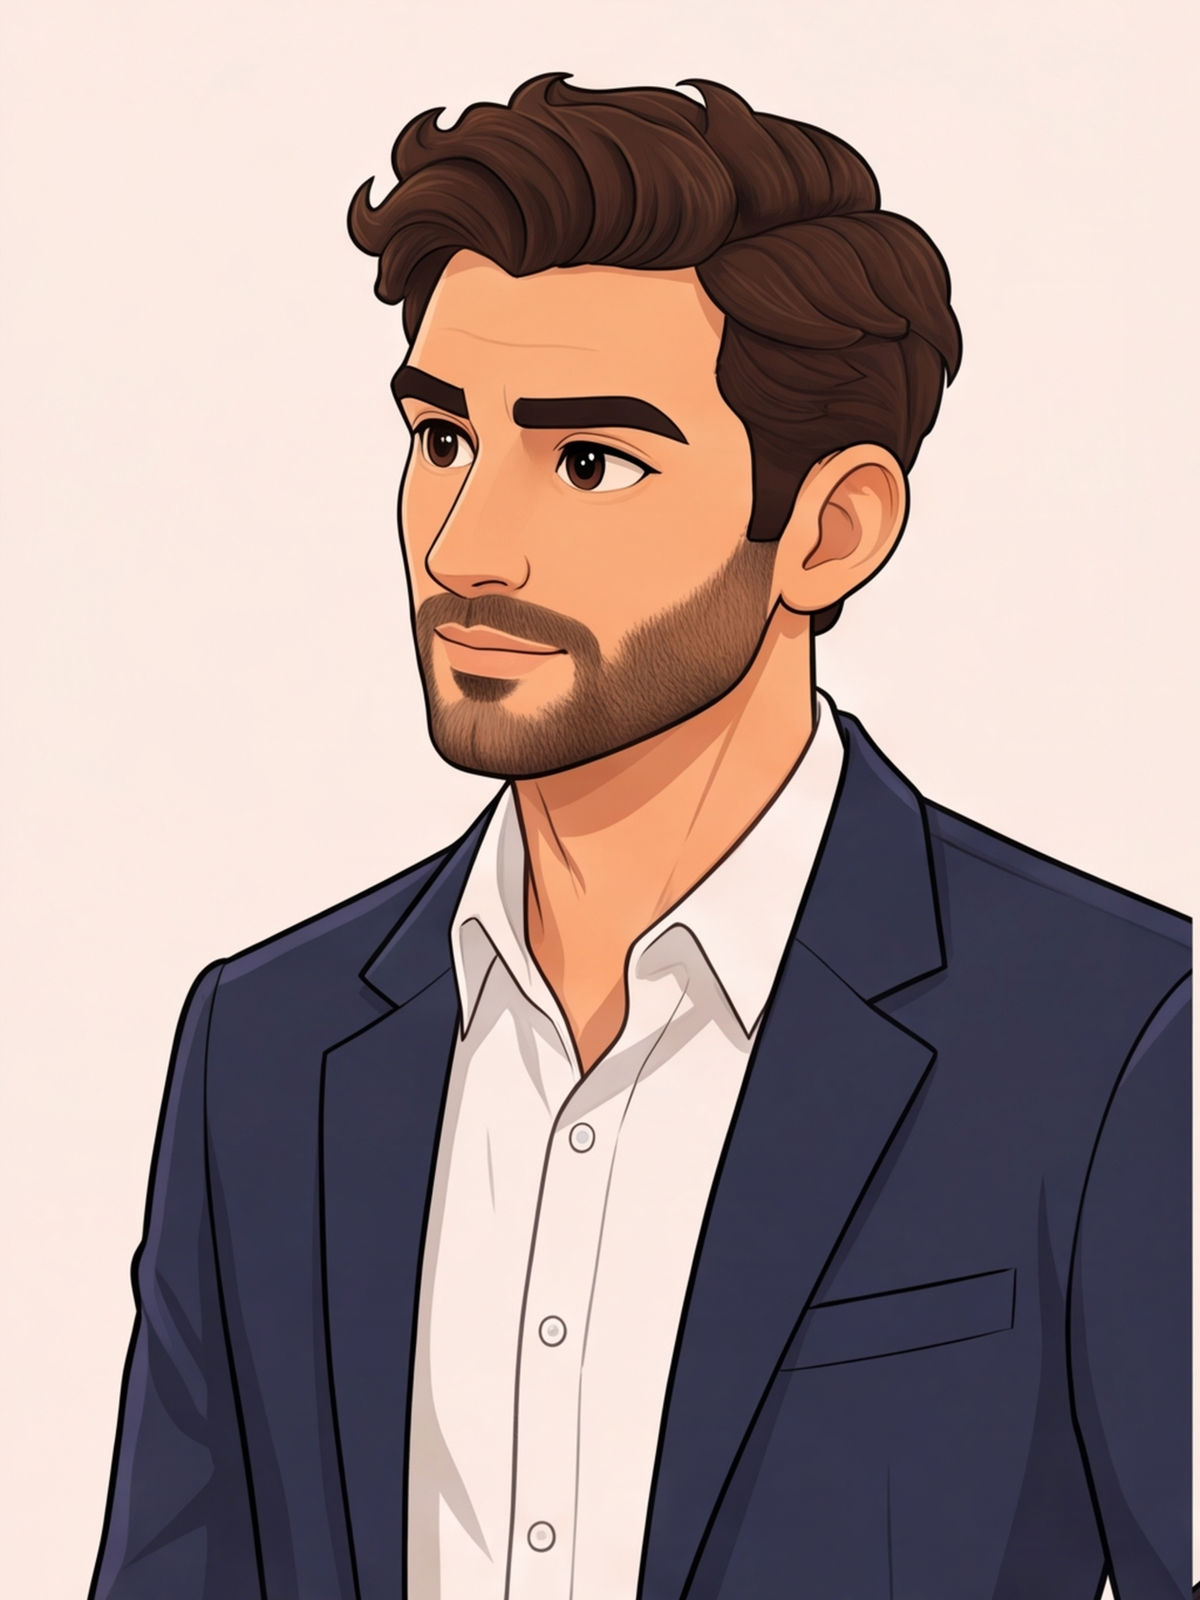
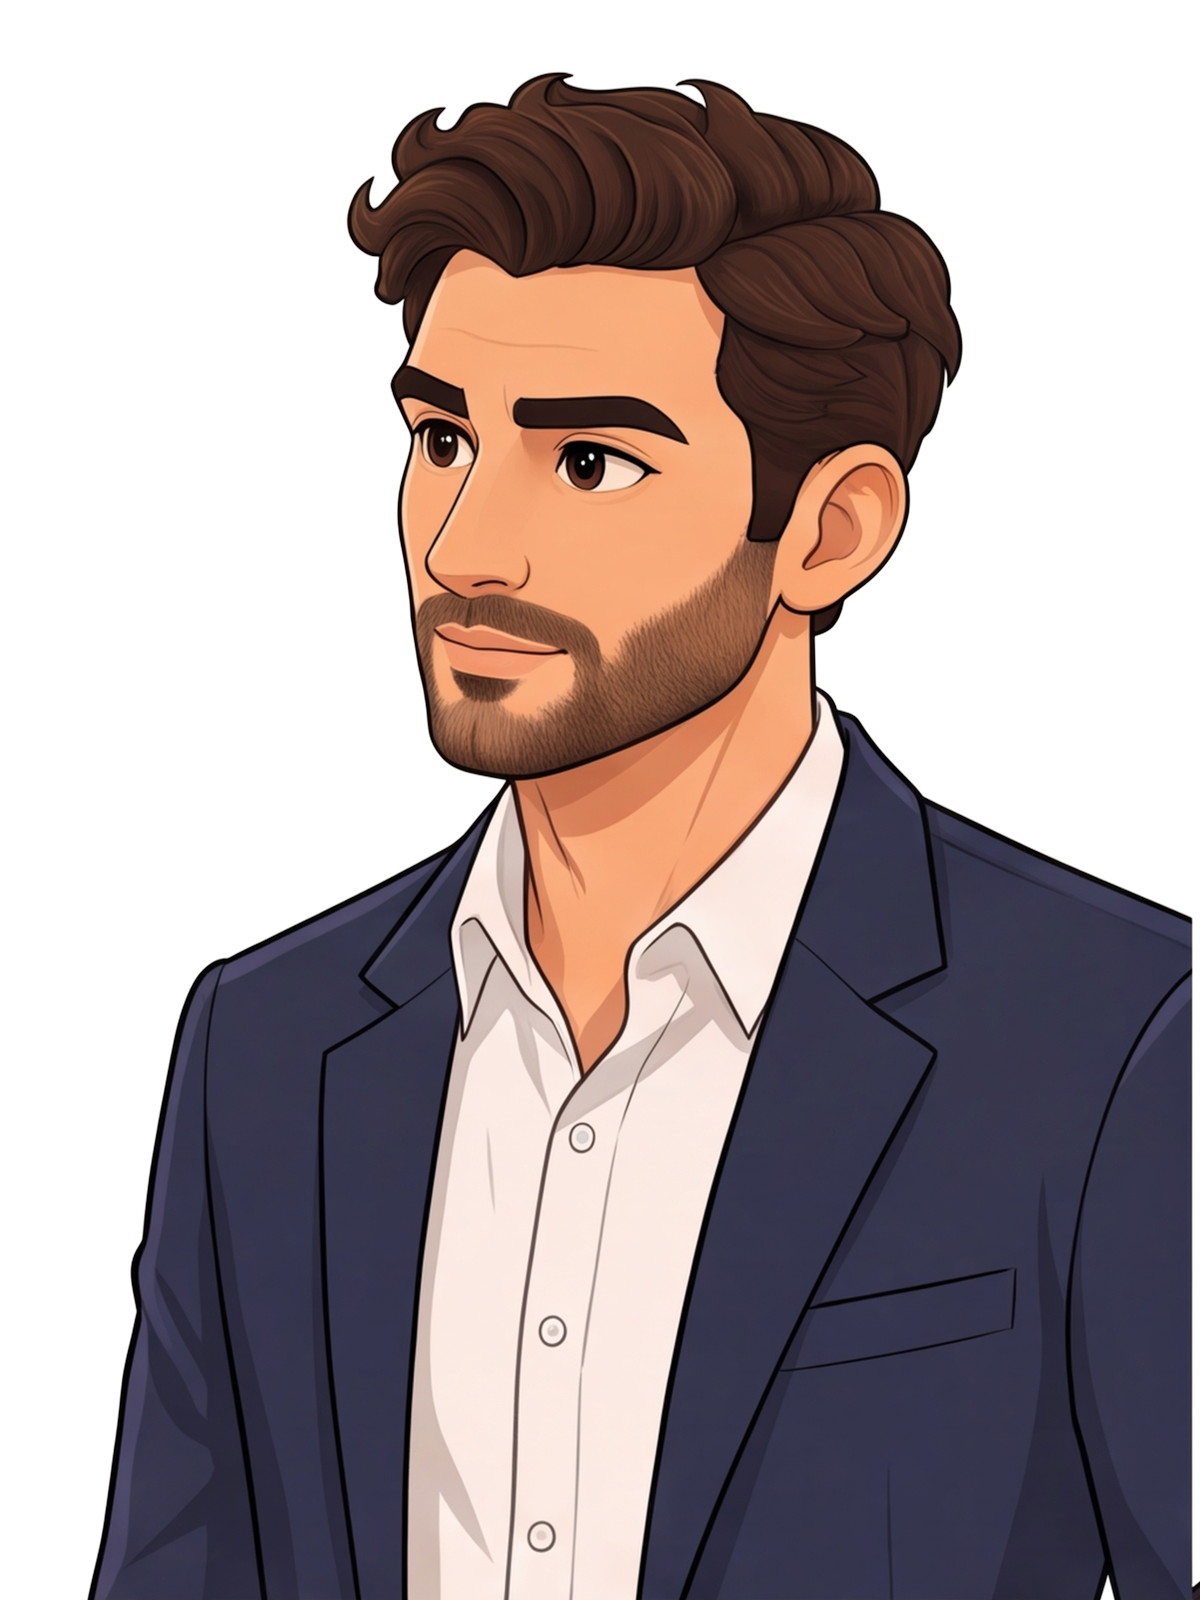
Sync FX persona colours and Figma screenshot crops (#43)

diff --git a/BUILD.md b/BUILD.md
@@ -575,3 +575,11 @@ I synced all nine updated screenshot sources from my working Figma FX page, usin
 I separated the journey's persona, scenario, goal and phase descriptions from the tiny vector lettering. They now use 16px body text, wider two-column stage descriptions and a single column on phones. The thoughts, feelings and approach chart still uses my exact original SVG, unchanged. I added matching readable text layouts in Figma, kept its original vector artwork, and preserved the existing mobile stage descriptions.
 
 Validation: production build and all 148 Playwright tests passed. I checked the desktop and phone journey layouts in Chrome and the revised Figma journey composition.
+
+### 11 October · Persona colours match my latest Figma cards
+
+I kept Dana's peach background, changed Marcus to light grey and Priya to pale blue, using the exact colours in the working FX frame. I also synced the active transparent portrait assets so the old peach image backgrounds do not sit on the new card colours. The shared card accepts a background per persona; other projects keep their existing colours.
+
+The FX screenshot display now applies the original Figma crop transforms to the full-resolution source images. This preserves the authored framing, including the hover capture without browser chrome, while leaving the downloaded originals untouched.
+
+Validation: production build and all 148 browser tests passed. I checked the persona colours and hover framing in Chrome.
